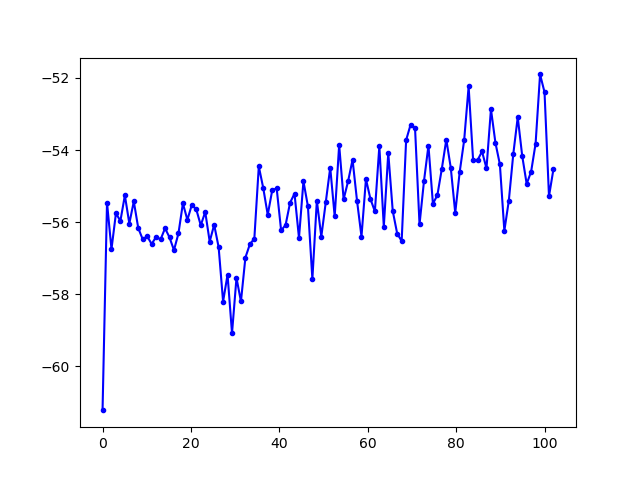
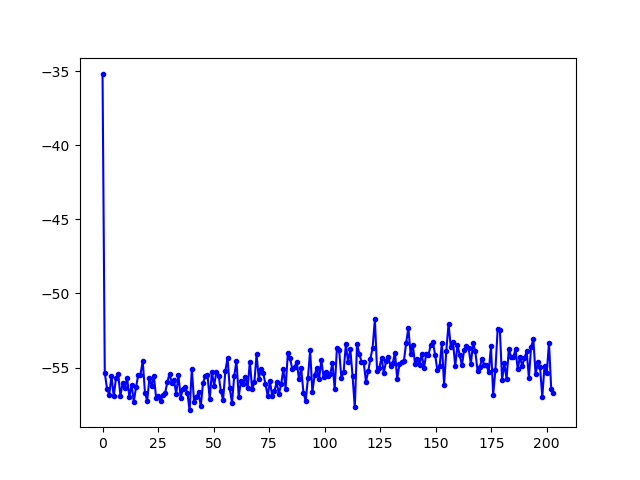
bipedal walker with more epochs

diff --git a/demo/smc_premotor_pid/bipedal_walker/affordance_hsom_controller.py b/demo/smc_premotor_pid/bipedal_walker/affordance_hsom_controller.py
@@ -11,7 +11,7 @@ import matplotlib.pyplot as plt
 """
 Hyperparameters
 """
-maxitr = 10 ** 4
+maxitr = 2 * 10 ** 4
 maxtime = 10 ** 3
 gamma = 0.99
 epsilon = 0.3
@@ -72,7 +72,7 @@ for epoch in range(maxitr):
             action_index = random.randrange(worker_som.total_nodes)
 
         # PD control
-        # Gains obtained via CMA-ES searching
+        # Gains estimated via CMA-ES
         k_p = 2.175604023818439
         k_d = 1.2390217586889263
         action[0] = k_p * (worker_som.w[action_index][0] - obs[4]) + k_d * obs[5]
@@ -115,6 +115,7 @@ for epoch in range(maxitr):
             tmp_epoch_count += 1
 
             if epoch % 99 == 0:
+                print(epoch)
                 cumulative_return.append(tmp_cum_return / tmp_epoch_count)
                 tmp_cum_return = 0
                 tmp_epoch_count = 0
